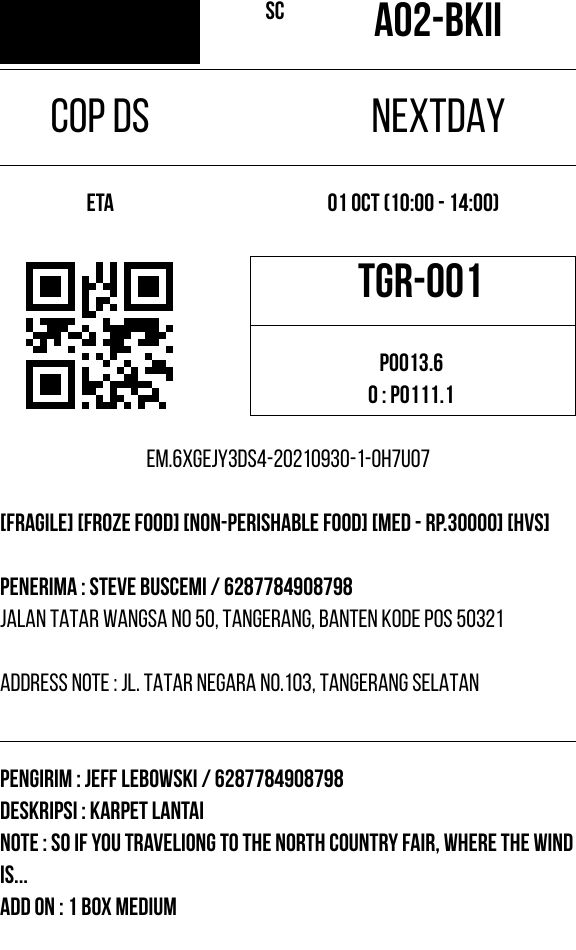
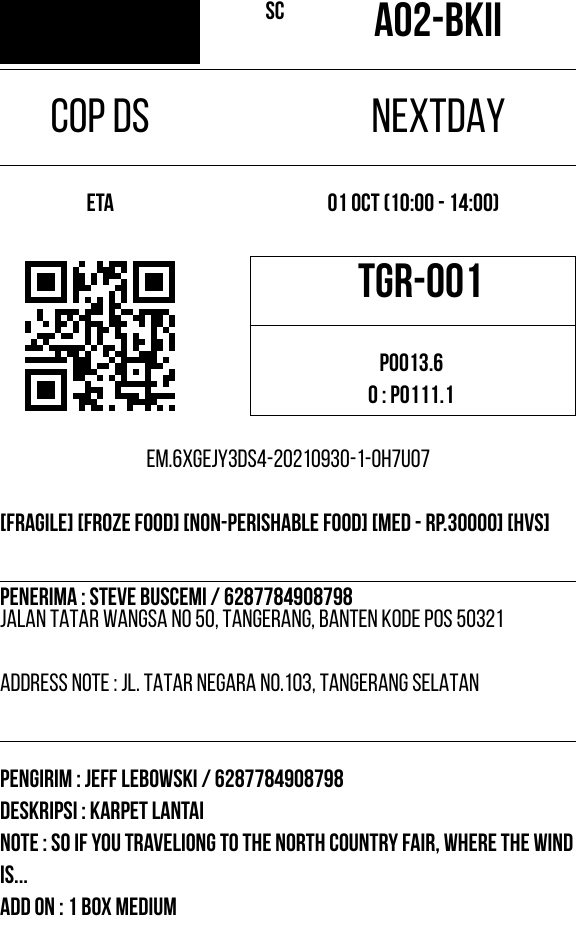
add case barcode type and case qrcode lel

Changed region(s): [[0.0312, 0.2747, 0.3125, 0.4579], [0.0, 0.6105, 0.625, 0.6411]]

diff --git a/main.go b/main.go
@@ -9,14 +9,17 @@ import (
 	"image/color"
 	"image/draw"
 	"image/png"
-	"log"
 	"os"
 	"strings"
 
 	"github.com/fogleman/gg"
 
 	"github.com/boombuler/barcode"
+	"github.com/boombuler/barcode/codabar"
+	"github.com/boombuler/barcode/code128"
+	"github.com/boombuler/barcode/code39"
 	"github.com/boombuler/barcode/code93"
+	"github.com/boombuler/barcode/ean"
 	"github.com/boombuler/barcode/qr"
 
 	"github.com/nfnt/resize"
@@ -33,25 +36,84 @@ const pType_AREA = 5
 const rowHeight = 32
 
 type printStep struct {
-	TypePrint     int    `json:"type_print"`
-	StartX        int    `json:"start_x"`
-	EndX          int    `json:"end_x"`
-	StartY        int    `json:"start_y"`
-	EndY          int    `json:"end_y"`
-	AllignX       int    `json:"allign_x"`
-	AllignY       int    `json:"allign_y"`
-	Rotate        int    `json:"rotate"`
-	FontSize      int    `json:"font_size"`
-	Bold          int    `json:"bold"`
-	Reverse       int    `json:"reverse"`
-	UnderLine     int    `json:"underline"`
-	DeleteLine    int    `json:"delete_line"`
-	Content       string `json:"content"`
-	PBarcodeType  int    `json:"pb_barcode_type"`
-	LineWidth     int    `json:"lindewidth"`
-	HeightBarCode int    `json:"height_barcode"`
-	Lel           int    `json:"lel"`
-	IsSolid       bool   `json:"is_solid"`
+	TypePrint int `json:"type_print"`
+	StartX    int `json:"start_x"`
+	EndX      int `json:"end_x"`
+	StartY    int `json:"start_y"`
+	EndY      int `json:"end_y"`
+	AllignX   int `json:"allign_x"` //  1 -> PAlign.START , 2 -> PAlign.END, 3 -> PAlign.CENTER
+	AllignY   int `json:"allign_y"` //  1 -> PAlign.START , 2 -> PAlign.END, 3 -> PAlign.CENTER
+	Rotate    int `json:"rotate"`   // 1 -> PRotate.Rotate_90, 2 -> PRotate.Rotate_180, 3-> Rotate.Rotate_270 else -> PRotate.Rotate_0
+	FontSize  int `json:"font_size"`
+	/*
+	 				in 0..16 -> LableFontSize.Size_16
+	                in 17..24 -> LableFontSize.Size_24
+	                in 25..32 -> LableFontSize.Size_32
+	                in 33..48 -> LableFontSize.Size_48
+	                in 49..64 -> LableFontSize.Size_64
+	                in 65..72 -> LableFontSize.Size_72
+	                in 73..96 -> LableFontSize.Size_96
+	                else -> LableFontSize.Size_24
+	*/
+	Bold         int    `json:"bold"`        // 1 -> Bold , 0-> Regular
+	Reverse      int    `json:"reverse"`     // 1 -> Reverse, 0 -> Reverse
+	UnderLine    int    `json:"underline"`   // 1 -> Underline, 0 -> normal
+	DeleteLine   int    `json:"delete_line"` // 1 -> DeleteLine, 0 -> normal
+	Content      string `json:"content"`
+	PBarcodeType int    `json:"pb_barcode_type"`
+	/*
+			switch(step.PBarcodeType) {
+		        case 1: {
+		            codeType = "EAN13";
+		            break;
+		        }
+		        case 2:
+		            codeType = "EAN8";
+		            break;
+		        case 4:
+		            codeType = "CODE39";
+		            break;
+		        case 5:
+		            codeType = "CODE93";
+		            break;
+		        case 6:
+		            codeType = "CODE128";
+		            break;
+		        case 7:
+		            codeType = "codabar";
+		            break;
+		        case 9:
+		            codeType = "UPCA";
+		        default:
+		            codeType = "CODE128";
+		            break;
+		        }
+	*/
+	LineWidth     int `json:"lindewidth"`
+	HeightBarCode int `json:"height_barcode"`
+	Lel           int `json:"lel"`
+	/*
+			switch(step.lel) {
+		        case 0 : {
+		          level = "L";
+		          break;
+		        }
+		        case 2 : {
+		          level = "Q";
+		          break;
+		        }
+		        case 3 : {
+		          level = "H";
+		          break;
+		        }
+		        default: {
+		          level = "M";
+		          break;
+		        }
+
+		      }
+	*/
+	IsSolid bool `json:"is_solid"`
 }
 
 var (
@@ -351,7 +413,7 @@ func MakeLabelServiceType(isImage bool) string {
 			pType_TEXT,
 			0,
 			576,
-			(rowHeight * 18),
+			(rowHeight * 18) + 10,
 			(rowHeight * 19),
 			0, 0, 0,
 			24,
@@ -470,7 +532,7 @@ func drawCanvas(steps []printStep) string {
 		switch step.TypePrint {
 		case pType_BARCODE:
 			{
-				drawBarcode(rgba, step)
+				drawBarcode(rgba, step, true)
 			}
 		case pType_QRCODE:
 			{
@@ -491,7 +553,6 @@ func drawCanvas(steps []printStep) string {
 			}
 		default:
 			{
-				// drawText(rgba, step)
 				drawText(rgba, step)
 			}
 		}
@@ -501,24 +562,53 @@ func drawCanvas(steps []printStep) string {
 	png.Encode(buf, rgba)
 	send_s3 := buf.Bytes()
 
-	saveImageToFile(rgba, "test.png")
+	// Kalo Mau Liat Hasil Imagenya
+	// saveImageToFile(rgba, "test.png")
 
 	return base64.RawStdEncoding.EncodeToString(send_s3)
 }
 
-func drawBarcode(rgba draw.Image, step printStep) {
-	bcode, err := code93.Encode("code", false, true)
+func drawBarcode(rgba draw.Image, step printStep, isScaling bool) {
+	bcode, err := code128.EncodeWithoutChecksum(step.Content)
+
+	switch step.PBarcodeType {
+	case 1, 2:
+		{
+			bcode, err = ean.Encode(step.Content)
+			// codeType = "EAN13, EAN8";
+			break
+		}
+	case 4:
+		{
+			bcode, err = code39.Encode(step.Content, false, true)
+			// codeType = "CODE39";
+			break
+		}
+	case 5:
+		{
+			bcode, err = code93.Encode(step.Content, false, true)
+			// codeType = "CODE93";
+		}
+	case 7:
+		{
+			bcode, err = codabar.Encode(step.Content)
+			// codeType = "codabar";
+			break
+		}
+	}
 
 	if err != nil {
 		fmt.Printf("String %s cannot be encoded", "code")
 		return
 	}
 
-	bcode, err = barcode.Scale(bcode, step.EndX-step.StartX, step.EndY-step.StartY)
-
-	if err != nil {
-		fmt.Println("Code128 scaling error!")
-		return
+	if isScaling {
+		bcode, err = barcode.Scale(bcode, step.EndX-step.StartX, step.EndY-step.StartY)
+		if err != nil {
+			fmt.Println("Code128 scaling error!")
+			drawBarcode(rgba, step, false)
+			return
+		}
 	}
 
 	draw.Draw(rgba, image.Rect(step.StartX, step.StartY, step.EndX, step.EndY),
@@ -526,7 +616,27 @@ func drawBarcode(rgba draw.Image, step printStep) {
 }
 
 func drawQRcode(rgba draw.Image, step printStep) {
-	qrCode, err := qr.Encode("Hello World", qr.M, qr.Auto)
+
+	level := qr.H
+	switch step.Lel {
+	case 0:
+		{
+			level = qr.L
+			break
+		}
+	case 1:
+		{
+			level = qr.M
+			break
+		}
+	case 2:
+		{
+			level = qr.Q
+			break
+		}
+	}
+
+	qrCode, err := qr.Encode("Hello World", level, qr.Auto)
 	if err != nil {
 		fmt.Printf("String %s cannot be encoded", "code")
 		return
@@ -641,19 +751,14 @@ func drawText(rgba draw.Image, step printStep) {
 				word := wordPrint + " " + wordArray[colWord+loop]
 				w2, _ := dc.MeasureString(word)
 				wordLength := w2 * (float64(fontCol) / 32)
-				// log.Println("Wordlenght", int(wordLength), "X = ", (step.EndX - step.StartX))
-				log.Println("colword+loop", colWord+loop, "lenWOrd ", len(wordArray))
 				if int(wordLength) >= step.EndX-step.StartX || colWord+loop >= len(wordArray)-1 {
 					notEdgeBorder = false
-					log.Println("InEdge or End")
-				} else {
-					log.Println("Lanjut")
 				}
+
 				wordPrint = word
 				colPrinted = loop
 				loop = loop + 1
 			}
-			println("TAG WordPrint", wordPrint)
 			dc := gg.NewContext(step.EndX-step.StartX, fontCol)
 			dc.DrawImage(image.Rect(0, 0, step.EndX-step.StartX, step.EndY-step.StartY), 0, 0)
 			dc.SetColor(color.Black)
@@ -673,8 +778,6 @@ func drawText(rgba draw.Image, step printStep) {
 }
 
 func saveImageToFile(rgba image.Image, name string) {
-	// new_png_file := "test.png"
-
 	myfile, err := os.Create(name)
 	if err != nil {
 		panic(err.Error())
